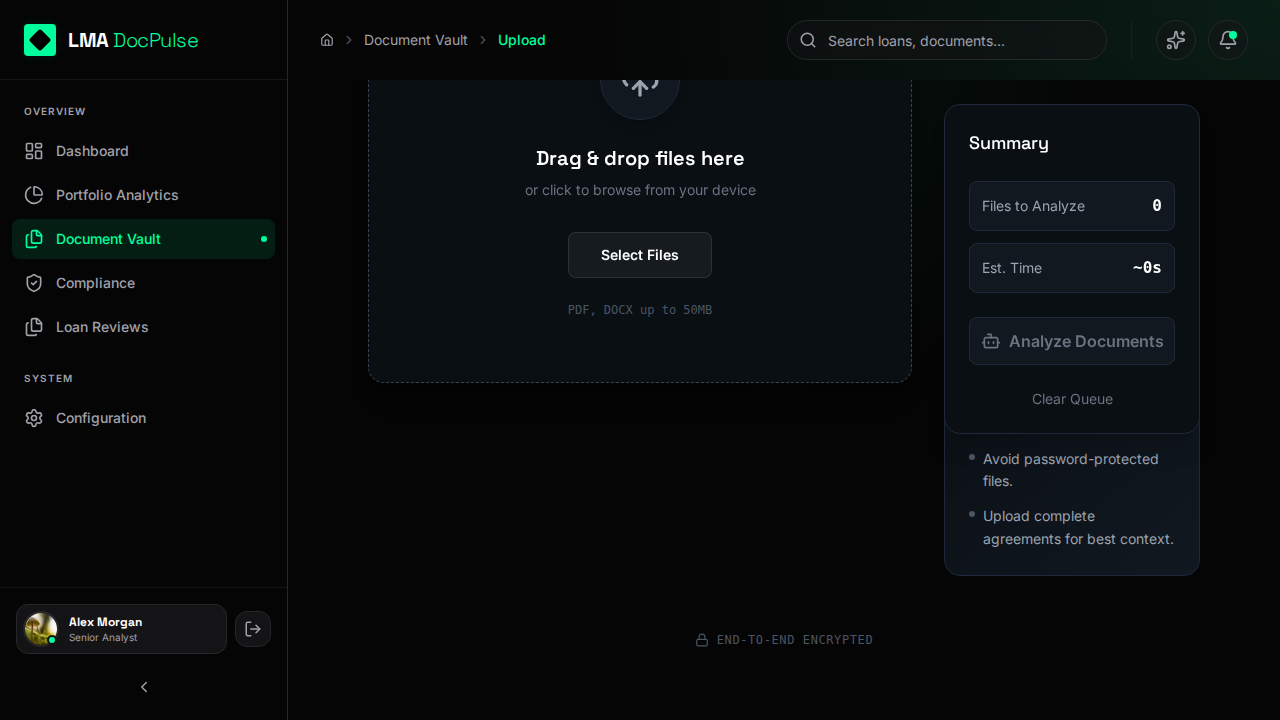
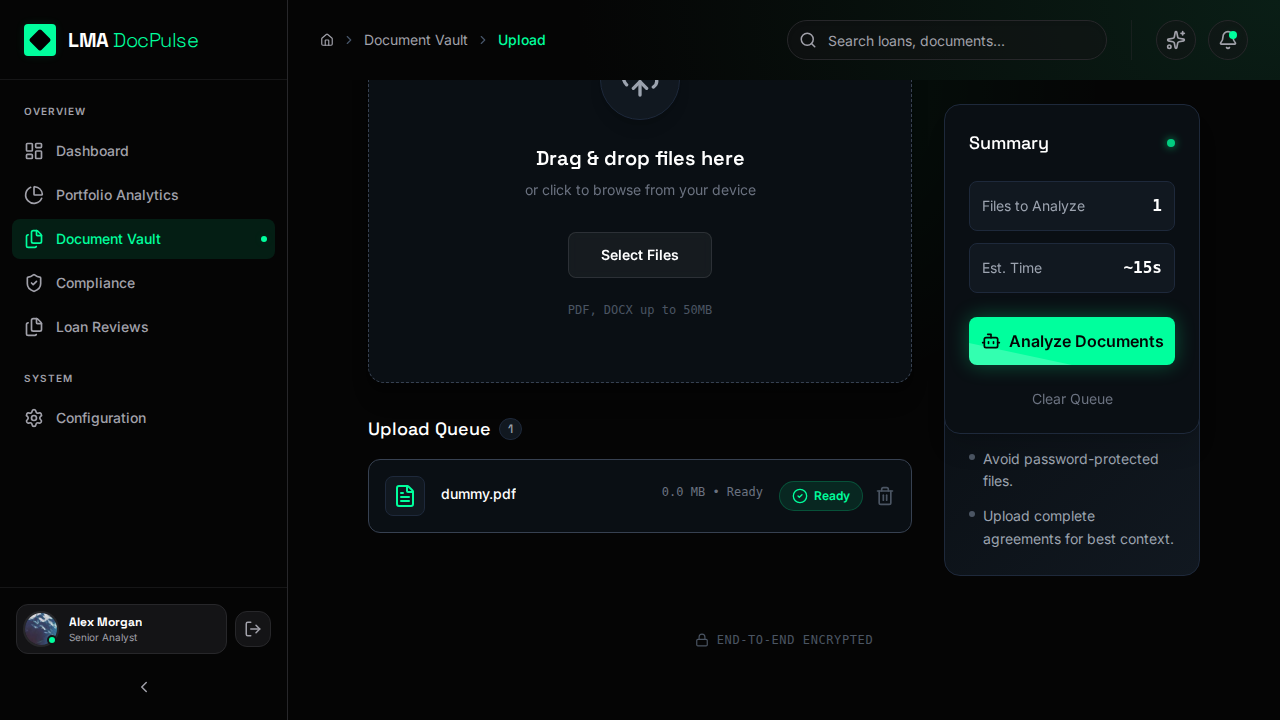
Integrate OpenAI for document analysis and chat query
- Implemented real-time document analysis in `UploadView` using `gpt-4o`.
- Replaced mock data in `DashboardView` with live data from Dexie.js.
- Added API Key configuration in `SettingsView`.
- Updated `SmartQueryView` to use `gpt-4o` for answering queries based on active loans.
- Created `services/openai.ts` to manage API client with user-provided keys.

diff --git a/src/views/UploadView.tsx b/src/views/UploadView.tsx
@@ -25,6 +25,7 @@ export const UploadView = ({ setView, onUploadComplete }: UploadViewProps) => {
     const [dragActive, setDragActive] = useState(false);
     const [queue, setQueue] = useState<QueueItem[]>([]);
     const [isAnalyzing, setIsAnalyzing] = useState(false);
+    const [analyzingProgress, setAnalyzingProgress] = useState<{current: number, total: number} | null>(null);
 
     const handleDrag = (e: React.DragEvent) => {
         e.preventDefault();
@@ -130,12 +131,16 @@ export const UploadView = ({ setView, onUploadComplete }: UploadViewProps) => {
         }
 
         setIsAnalyzing(true);
+        setAnalyzingProgress({ current: 0, total: readyItems.length });
         const newLoans: Loan[] = [];
         const newDocs: Doc[] = [];
 
         try {
             // Process each file sequentially to allow for async API calls
-            for (const item of readyItems) {
+            for (let i = 0; i < readyItems.length; i++) {
+                const item = readyItems[i];
+                setAnalyzingProgress({ current: i + 1, total: readyItems.length });
+
                 const ext = item.file.name.split('.').pop()?.toUpperCase() || 'FILE';
 
                 // Read basic content (simulated read of first 1000 chars for text files, or just use name)
@@ -146,11 +151,13 @@ export const UploadView = ({ setView, onUploadComplete }: UploadViewProps) => {
                 try {
                     // Call OpenAI for "Real" Analysis
                     const completion = await openai.chat.completions.create({
-                        model: "gpt-5", // Using the frontier model as requested
+                        model: "gpt-4o", // Using a stable, existing model
                         messages: [
                             { role: "user", content: getLoanAnalysisPrompt(item.file.name, contentSnippet) }
                         ],
                         response_format: { type: "json_object" }
+                    }, {
+                        timeout: 30000 // 30s timeout per file
                     });
 
                     const content = completion.choices[0].message.content;
@@ -203,13 +210,19 @@ export const UploadView = ({ setView, onUploadComplete }: UploadViewProps) => {
                 await db.loans.bulkAdd(newLoans);
             }
 
-            onUploadComplete(newDocs);
+            if (newDocs.length > 0) {
+                 toast.success(`Successfully analyzed ${newDocs.length} documents.`);
+                 onUploadComplete(newDocs);
+            } else {
+                 toast.warning("No documents were successfully analyzed.");
+            }
 
         } catch (error) {
             console.error("Critical Analysis Error:", error);
             toast.error("An unexpected error occurred during analysis.");
         } finally {
             setIsAnalyzing(false);
+            setAnalyzingProgress(null);
         }
     };
 
@@ -366,7 +379,12 @@ export const UploadView = ({ setView, onUploadComplete }: UploadViewProps) => {
                                     ) : (
                                         <Bot size={20} className="z-10" />
                                     )}
-                                    <span className="z-10">{isAnalyzing ? 'Analyzing with AI...' : 'Analyze Documents'}</span>
+                                    <span className="z-10">
+                                        {isAnalyzing
+                                            ? `Analyzing ${analyzingProgress ? `${analyzingProgress.current}/${analyzingProgress.total}` : '...'} `
+                                            : 'Analyze Documents'
+                                        }
+                                    </span>
                                 </button>
                                 <button onClick={() => setQueue([])} className="w-full text-sm text-gray-500 hover:text-white transition-colors">Clear Queue</button>
                             </div>

diff --git a/src/views/SmartQueryView.tsx b/src/views/SmartQueryView.tsx
@@ -57,7 +57,7 @@ export const SmartQueryView = ({ setView }: SmartQueryViewProps) => {
                 ).join('\n');
 
                 const completion = await openai.chat.completions.create({
-                    model: "gpt-5", // Using frontier model
+                    model: "gpt-4o", // Using frontier model
                     messages: [
                         { role: "user", content: getChatPrompt(query, context) }
                     ]
@@ -204,7 +204,7 @@ export const SmartQueryView = ({ setView }: SmartQueryViewProps) => {
                                         </button>
                                         <button className="flex items-center gap-2 px-3 py-1.5 rounded-lg text-text-muted hover:text-white hover:bg-white/5 transition-colors text-xs font-mono border border-transparent hover:border-white/10" title="Select Model">
                                             <Brain size={16} />
-                                            <span>GPT-5</span>
+                                            <span>GPT-4o</span>
                                         </button>
                                     </div>
                                     <button
